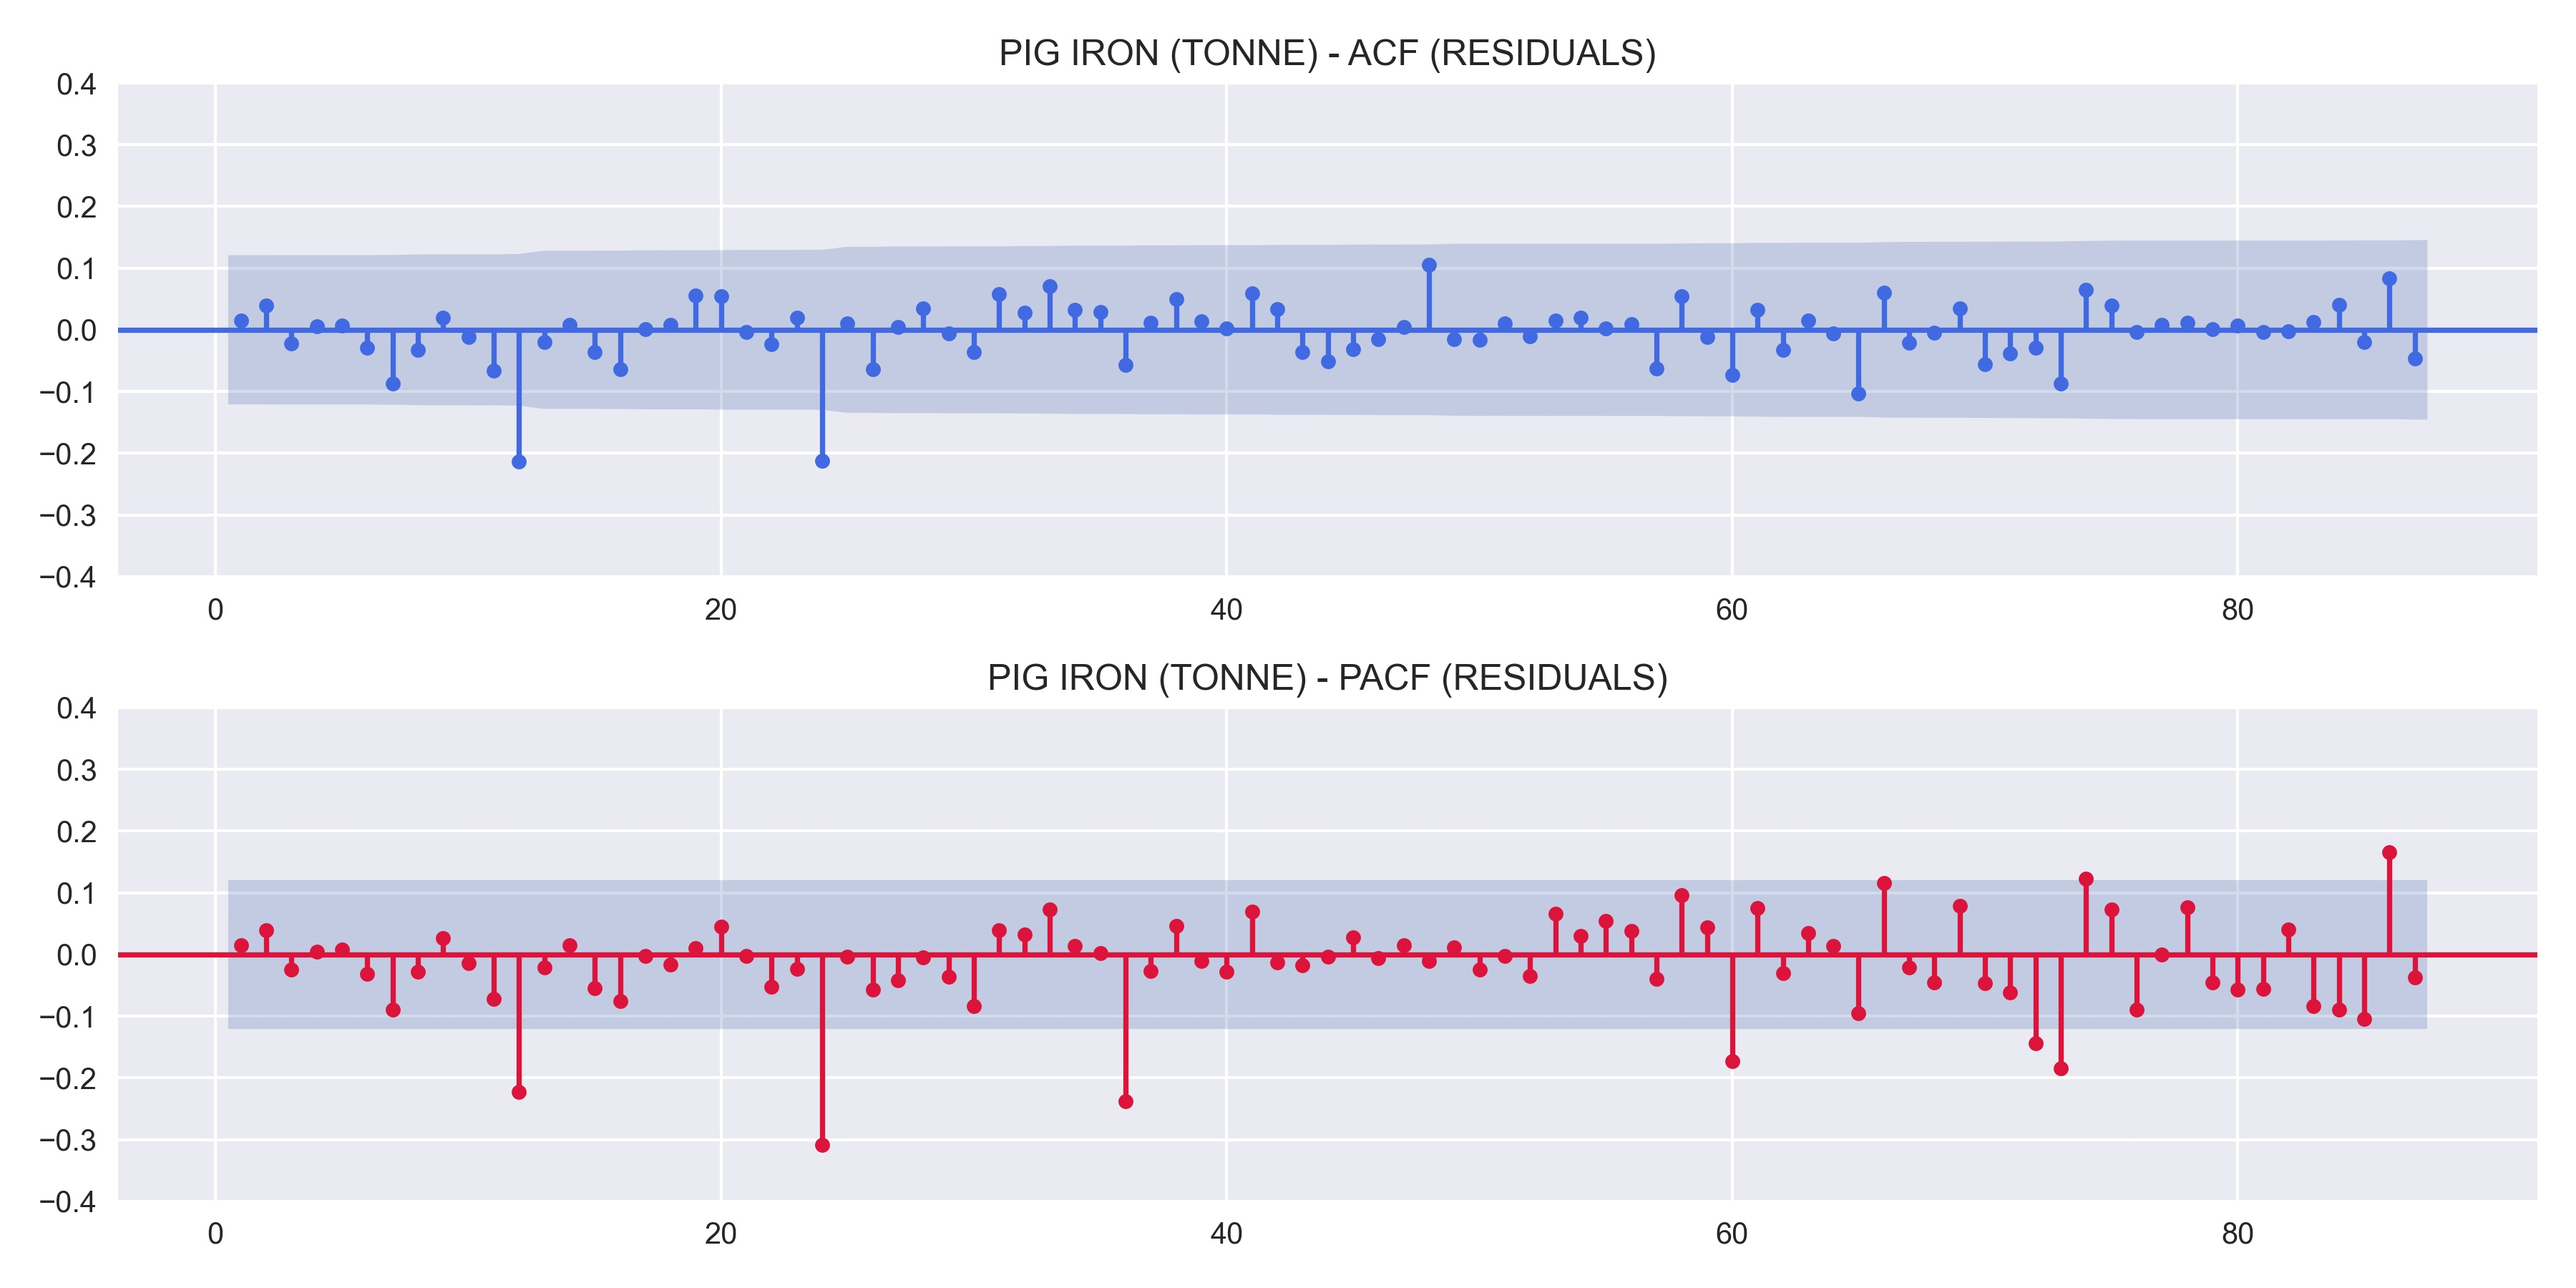
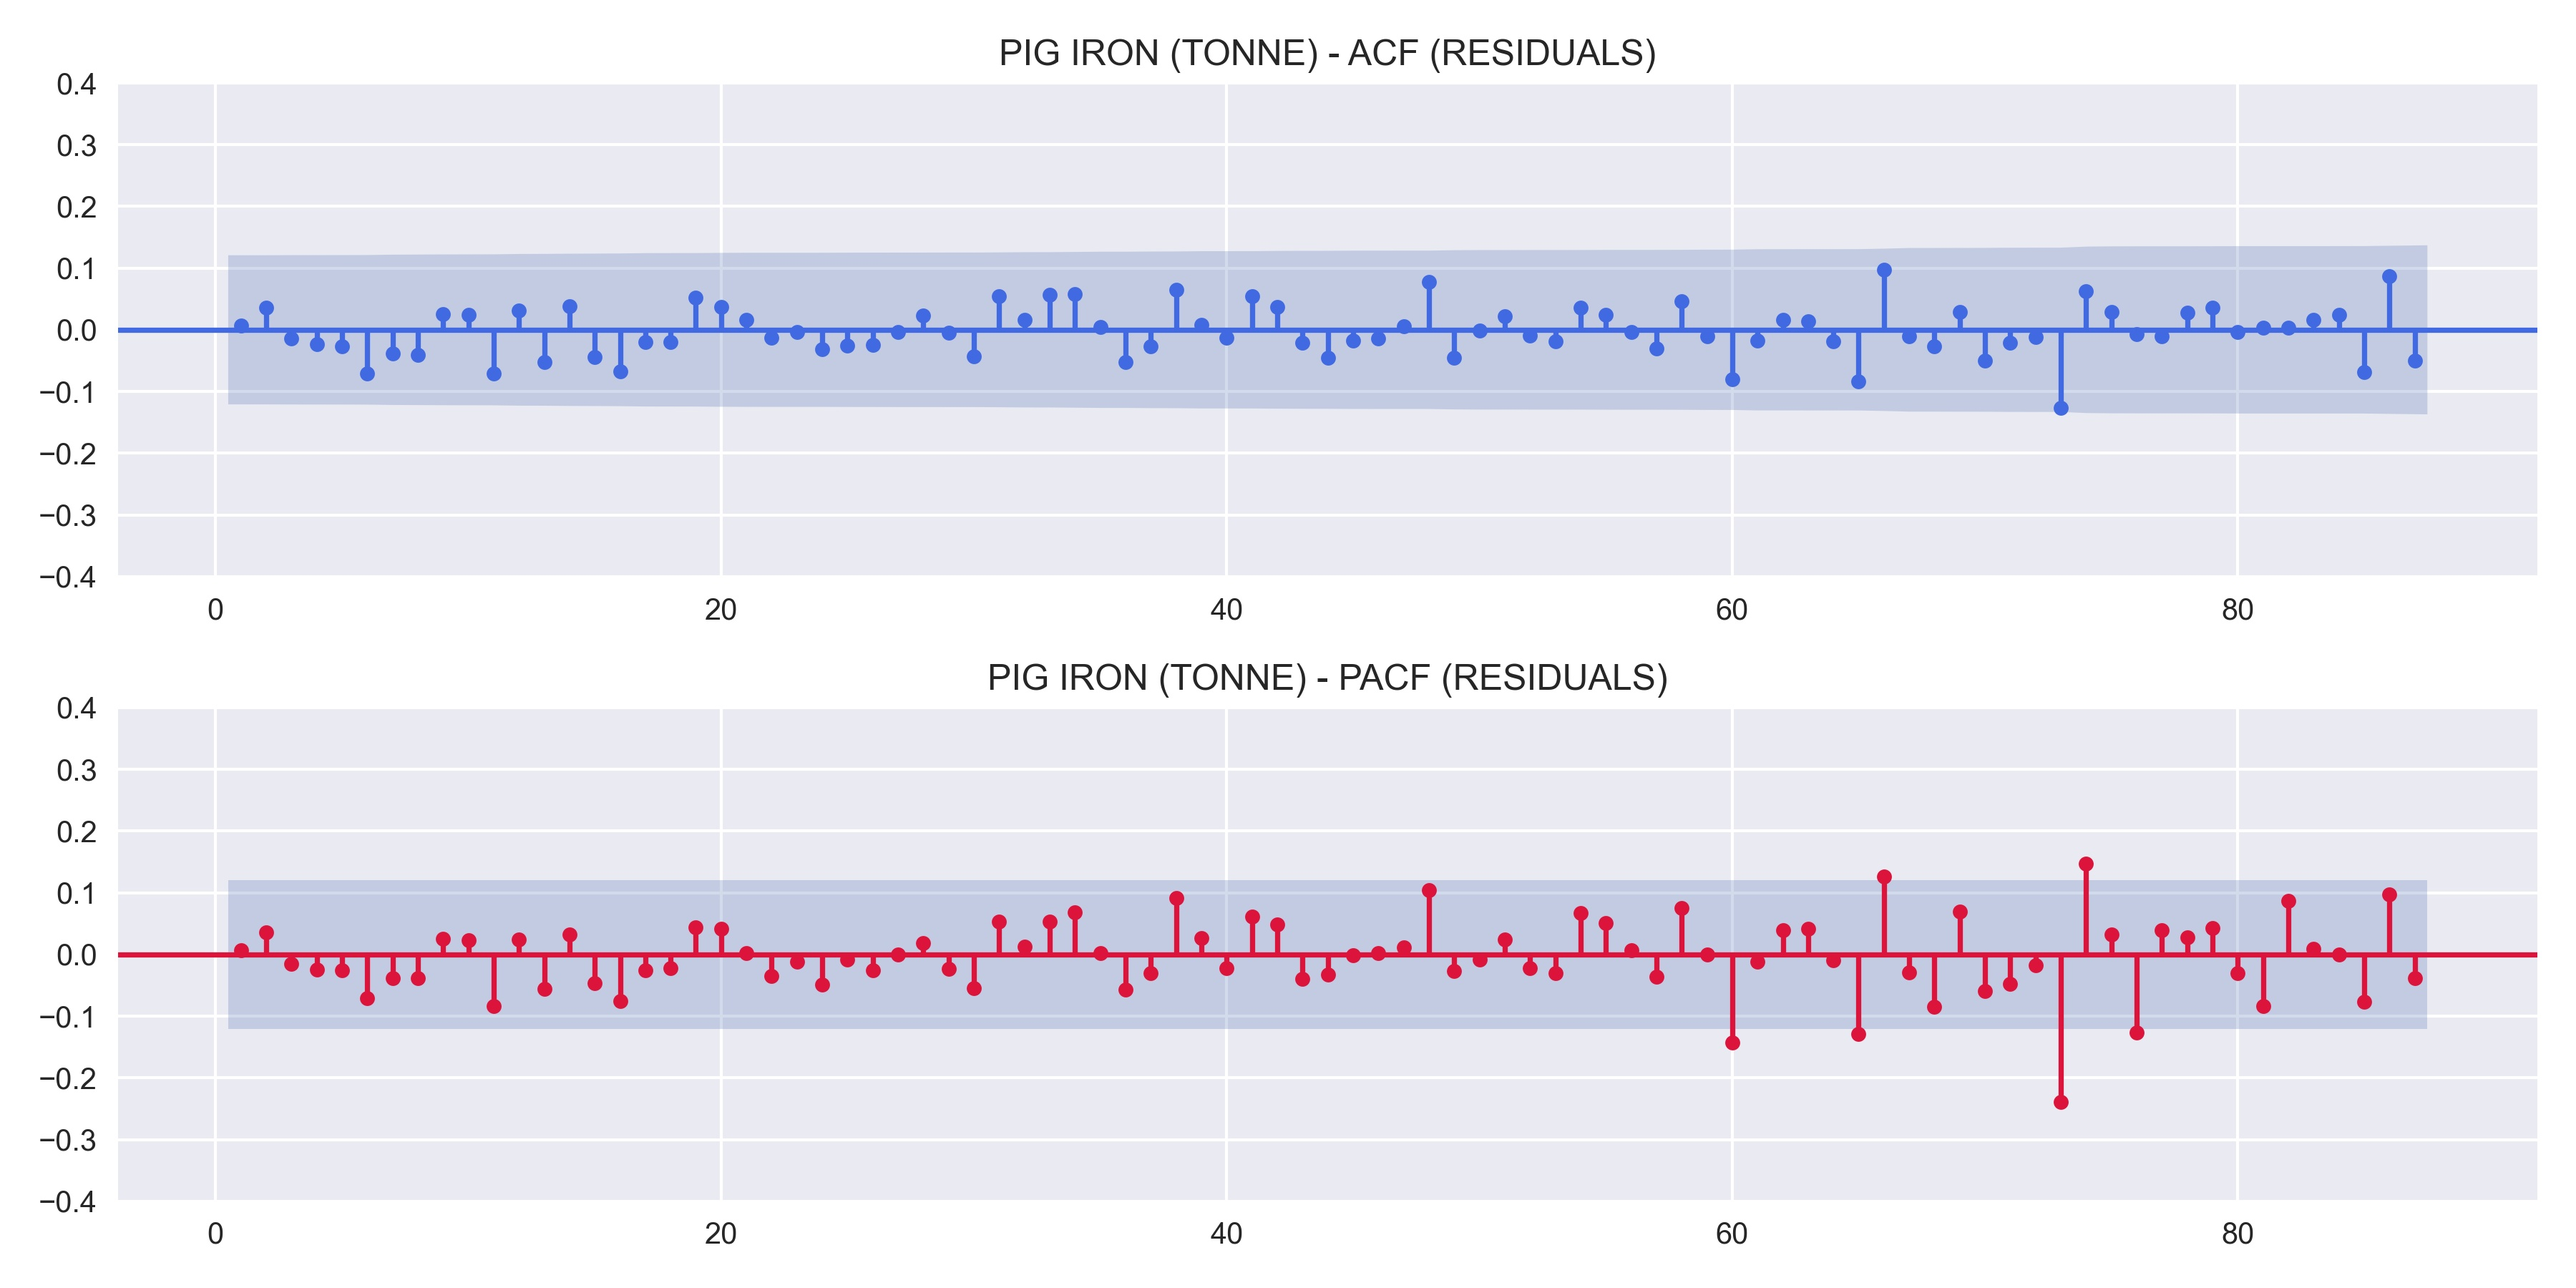
update readme

diff --git a/data_input_config.py b/data_input_config.py
@@ -46,12 +46,12 @@ path_x13_arima = "C:/Program Files (x86)/x13as/0_x13as"
 
 # Manual parameter setting
 # ==========================================================
-p = 1 #1
+p = 0 #0
 d = 1 #1
 q = 0 #1
-P = 1 #3
-D = 1 #1
-Q = 0 #0
+P = 1 #1
+D = 0 #0
+Q = 1 #1
 
 # inform the periodicity of the series (D=365, M=12, Y=1)
 s = 12

diff --git a/README.md b/README.md
@@ -1,1 +1,68 @@
-coming soon...
+# **DESCRIPTION**
+The vast majority of pig iron is produced and consumed within integrated steel mill complexes. In this context the term “pig iron” is something of a misnomer: within integrated steel mills, blast furnace iron is transferred directly to the steel plant in liquid form, better known as "hot metal" or "blast furnace iron."
+
+The term “pig iron” dates back to the time when hot metal was cast into ingots before being charged to the steel plant. The moulds were laid out in sand beds such that they could be fed from a common runner. The group of moulds resembled a litter of sucking pigs, the ingots being called “pigs” and the runner the “sow.”
+
+Merchant pig iron
+Merchant pig iron is cold pig iron, cast into ingots and sold to third parties as feedstock for the steel and ferrous casting industries.
+
+Merchant pig iron is produced by:
+
+dedicated merchant plants - all of whose production is sold to external customers: or
+integrated steel mills - with iron that is surplus to their internal requirements and cast into ingots and sold to the merchant market.
+Types of merchant pig iron
+Merchant pig iron comprises three main types:
+
+basic pig iron: used mainly in electric arc steelmaking
+foundry pig iron (also known as haematite pig iron): used in mainly in the manufacture of grey iron castings in cupola furnaces
+high purity pig iron (also known as nodular pig iron): used in the manufacture of ductile [also known as nodular or spheroidal graphite – SG] iron castings.
+There are also various sub-types, for example low manganese basic pig iron, semi-nodular pig iron etc.
+
+Data source: Instituto Brasileiro de Siderurgia (data collected from the IPEADATA database).
+
+# **RESULTS**
+Results obtained through the model estimation process.
+
+## Variable analysis at level:
+<img src="4_results/1_time_serie.jpg"> <br /> <br />
+
+
+<img src="4_results/2_fac_facp_level.jpg"> <br /> <br />
+
+
+<img src="4_results/3_periodogram_level.jpg"> <br /> <br />
+
+
+<img src="4_results/4.jpg"> <br /> <br />
+
+
+## Study of data stationarity:
+<img src="4_results/5.jpg"> <br /> <br />
+
+
+<img src="4_results/6.jpg"> <br /> <br />
+
+
+## SEASONAL ADJUSTMENT:
+<img src="4_results/7_x13_results.jpg"> <br /> <br />
+
+
+<img src="4_results/8_x13_seasonal_adjustment.jpg"> <br /> <br />
+
+
+## Model results:
+<img src="4_results/9.jpg"> <br /> <br />
+
+
+## Residual analysis:
+<img src="4_results/10_residuals (acf and pacf).jpg"> <br /> <br />
+
+
+<img src="4_results/11_residuals (frequency distribution).jpg"> <br /> <br />
+
+
+<img src="4_results/12_residuals (time serie).jpg"> <br /> <br />
+
+
+# FORECAST:
+<img src="4_results/13_observed_fitted_predict.jpg"> <br /> <br />
